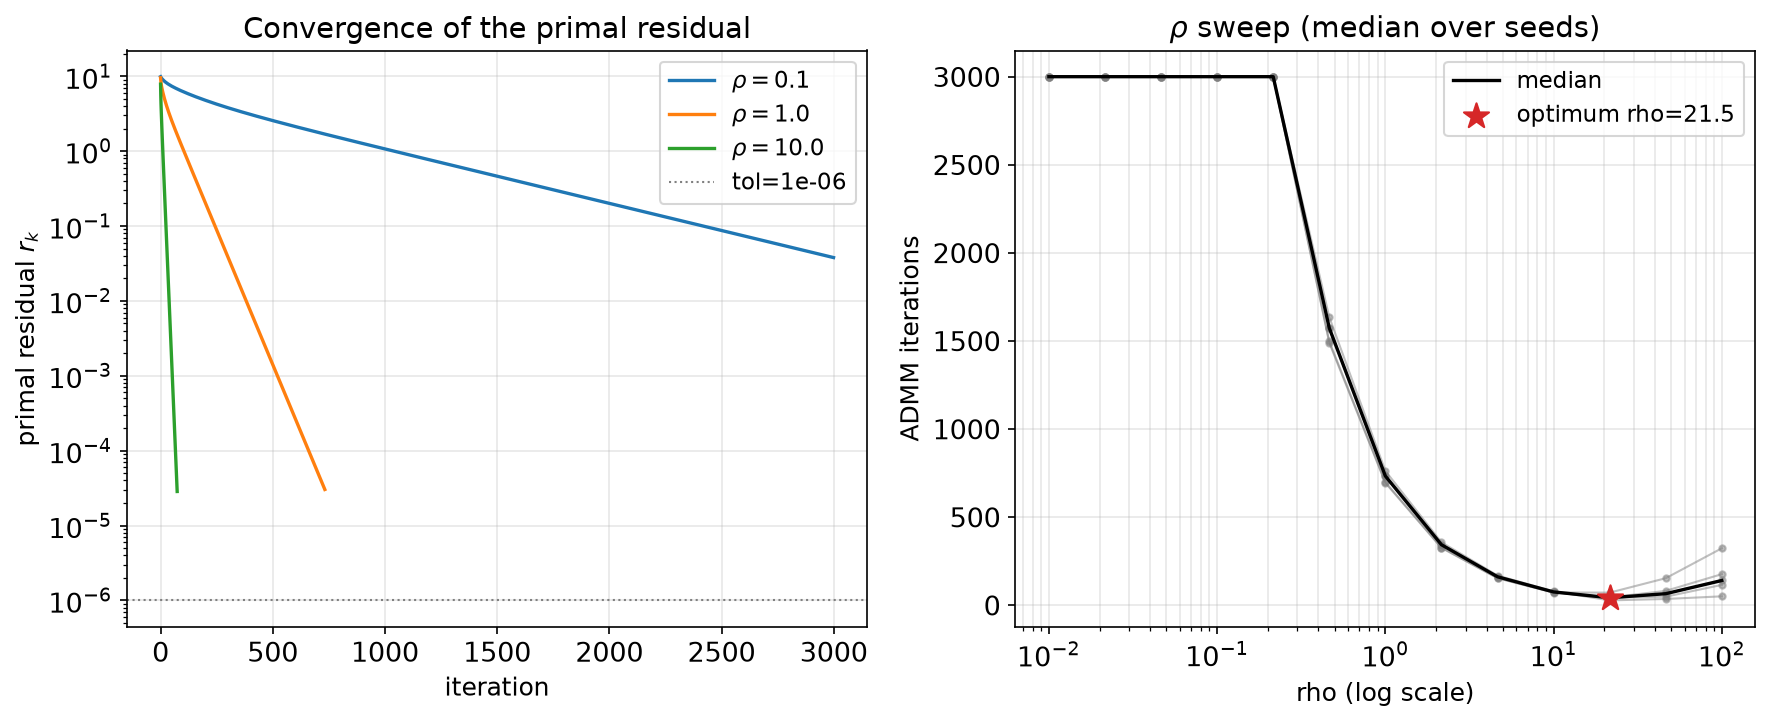
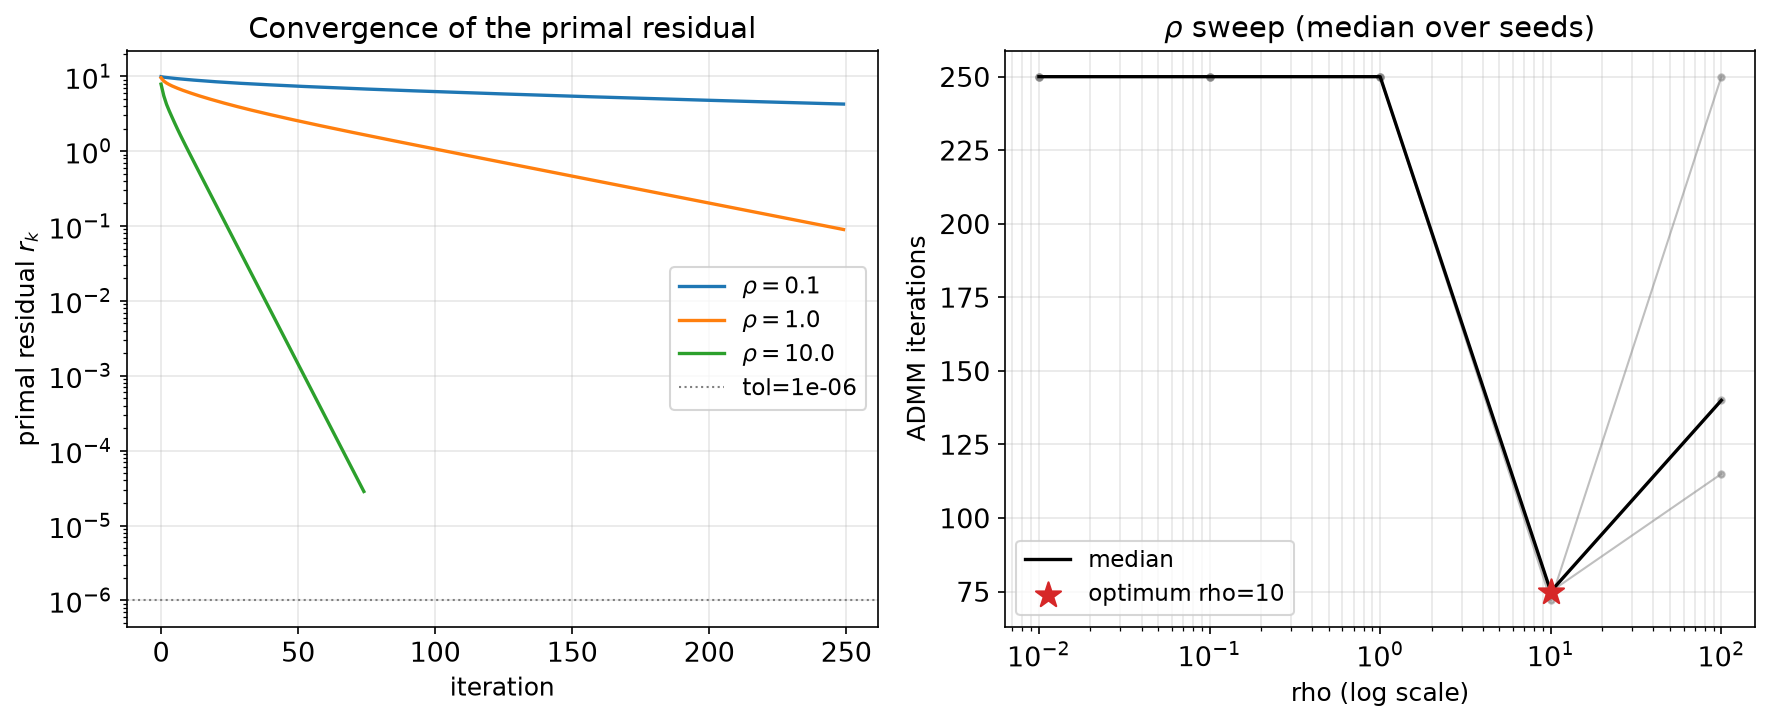
fix(ci): make the notebook and LaTeX jobs actually pass
Both jobs had never succeeded. Fixes verified in the same containers CI
uses: ghcr.io/xu-cheng/texlive-full and a 2-CPU python:3.13 container.

Notebook smoke test
- Set NB_CI=1 on both notebook steps. Every `if NB_CI` gate in notebooks
  04, 05 and analysis/topology_robustness was dead code: the variable was
  never exported, so CI ran the full research protocol (30 seeds, 13 rho
  values, MAX_ITER=3000). Notebook 05's rho sweep alone is ~90 minutes and
  blew the 900 s per-cell timeout.
- Gate MAX_ITER under NB_CI (250 vs 3000) and shrink the rho grid to 5
  points. Seeds alone are not enough: the left end of the sweep does not
  converge by design -- those points exist to show the plateau -- so each
  costs the full cap. The plateau still renders (censored either way) and
  the optimum near rho = 21.5 sits far below the cap, so every plot keeps
  its shape.
- Measured at 2 CPUs: notebook 05 769 s -> 322 s, topology_robustness 30 s.
- Committed outputs are unaffected; they come from full local runs.

Derivations
- work_in_root_file_dir: true. latexmk ran from the repository root, and
  TeX resolves \input{preamble} and \bibliography{references} against the
  working directory rather than the including file's directory, so every
  document died on "File `preamble.tex' not found".
- Fix a Double superscript fatal error in consensus_admm_derivation.tex.
  \zcon{j} already expands to z^{j}, so \zcon{j}^k is z^{j}^k. Five sites.
[…]

diff --git a/docs/derivations/consensus_admm_derivation.tex b/docs/derivations/consensus_admm_derivation.tex
@@ -125,7 +125,7 @@ alternates three minimisations, each holding the other two blocks fixed.
 Both $f_i$ and the penalty separate across $i$, so this is $N$ independent QPs:
 \begin{equation}
 (U_i^{k+1}, y_i^{k+1}) = \argmin_{U_i, y_i}\ \Big[
-  f_i(y_i) + \tfrac{\rho}{2}\sum_{j\in\Nbrc_i}\norm{\ycopy{i}{j} - \zcon{j}^k + \dual{i}{j}^k}^2
+  f_i(y_i) + \tfrac{\rho}{2}\sum_{j\in\Nbrc_i}\norm{\ycopy{i}{j} - \zconk{j}{k} + \dualk{i}{j}{k}}^2
 \Big]
 \quad\text{s.t.}\quad \ycopy{i}{i} = \Phi_p x_i(0) + \Gamma_p U_i,\ \text{boxes}.
 \label{eq:xupdate}
@@ -149,9 +149,9 @@ the average of $\ycopy{i}{j} + \dual{i}{j}$ over the contributors $C(j)$ of $j$.
 undirected graph $C(j) = \Nbrc_j$, so \textbf{the $z$-update for $j$ requires only messages
 from $j$'s neighbours}. This single sentence is what makes the iteration distributed.
 
-\paragraph{Dual update.} $\udual{i}{j}^{k+1} = \udual{i}{j}^k + \rho(\ycopy{i}{j}^{k+1} -
-\zcon{j}^{k+1})$, or in scaled form
-$\dual{i}{j}^{k+1} = \dual{i}{j}^k + (\ycopy{i}{j}^{k+1} - \zcon{j}^{k+1})$.
+\paragraph{Dual update.} $\udualk{i}{j}{k+1} = \udualk{i}{j}{k} + \rho(\ycopyk{i}{j}{k+1} -
+\zconk{j}{k+1})$, or in scaled form
+$\dualk{i}{j}{k+1} = \dualk{i}{j}{k} + (\ycopyk{i}{j}{k+1} - \zconk{j}{k+1})$.
 
 \section{Scaled form and the final algorithm}
 
@@ -196,7 +196,7 @@ The primal and dual residuals are (Section 6 of the notation reference)
 \begin{equation}
 r^k = \Big(\sum_i\sum_{j\in\Nbrc_i}\norm{\ycopy{i}{j} - \zcon{j}}^2\Big)^{1/2},
 \qquad
-s^k = \rho\Big(\sum_j \norm{\zcon{j}^k - \zcon{j}^{k-1}}^2\Big)^{1/2},
+s^k = \rho\Big(\sum_j \norm{\zconk{j}{k} - \zconk{j}{k-1}}^2\Big)^{1/2},
 \end{equation}
 and stopping uses
 \begin{equation}
@@ -288,6 +288,9 @@ feasibility condition $(y_i - a_i) + \lambda_i = 0$ at the optimum. The MPC laye
 adds the affine map $y = \Phi_p x_0 + \Gamma_p U$ to the x-update; the z-update and dual
 update above are unchanged.
 
+% See augmented_lagrangian.tex: sources are attributed in prose, so \nocite{*} is what
+% keeps the References section from rendering empty.
+\nocite{*}
 \bibliographystyle{plain}
 \bibliography{references}
 \end{document}

diff --git a/docs/derivations/preamble.tex b/docs/derivations/preamble.tex
@@ -36,6 +36,15 @@
 \newcommand{\R}{\mathbb{R}}
 \newcommand{\Nbr}{\mathcal{N}}                   % open neighborhood (subscript written as \Nbr_i)
 \newcommand{\Nbrc}{\bar{\mathcal{N}}}            % closed neighborhood (subscript written as \Nbrc_i)
+% Iterate-indexed forms. The base macros below already emit a superscript, so writing
+% \zcon{j}^k expands to z^{j}^k -- a double superscript, which is a hard TeX error and not
+% a warning. The iteration index has to join the existing superscript group, giving
+% z^{j,k}. Use these whenever an ADMM iteration index is attached.
+\newcommand{\ycopyk}[3]{y_{#1}^{#2,#3}}         % local copy at iteration
+\newcommand{\zconk}[2]{z^{#1,#2}}               % consensus variable at iteration
+\newcommand{\dualk}[3]{\lambda_{#1}^{#2,#3}}    % scaled dual at iteration
+\newcommand{\udualk}[3]{\nu_{#1}^{#2,#3}}       % unscaled dual at iteration
+
 \newcommand{\ycopy}[2]{y_{#1}^{#2}}             % local copy
 \newcommand{\zcon}[1]{z^{#1}}                   % consensus variable
 \newcommand{\dual}[2]{\lambda_{#1}^{#2}}        % scaled dual (code `lam`)

diff --git a/docs/derivations/augmented_lagrangian.tex b/docs/derivations/augmented_lagrangian.tex
@@ -186,6 +186,11 @@ step-size-sensitive), and as $\rho \to \infty$ it limits to the penalty method (
 progress, ill-conditioned dual). Finite $\rho$ trades the two, which is why the
 residual-balancing heuristic of the main document chooses $\rho$ online.
 
+% The prose attributes sources by name rather than with \cite, so bibtex would otherwise
+% produce an empty thebibliography and the PDF would render a bare "References" heading
+% with nothing under it. \nocite{*} lists every verified entry of references.bib as the
+% reading list these documents actually draw on.
+\nocite{*}
 \bibliographystyle{plain}
 \bibliography{references}
 \end{document}

diff --git a/docs/derivations/convergence_proof.tex b/docs/derivations/convergence_proof.tex
@@ -199,6 +199,9 @@ not a theorem. Label it as such.
 Each of these is a chapter-sized question; they are what an advisor actually reads this
 document for.
 
+% See augmented_lagrangian.tex: sources are attributed in prose, so \nocite{*} is what
+% keeps the References section from rendering empty.
+\nocite{*}
 \bibliographystyle{plain}
 \bibliography{references}
 \end{document}
